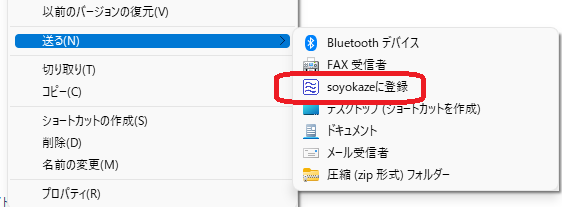
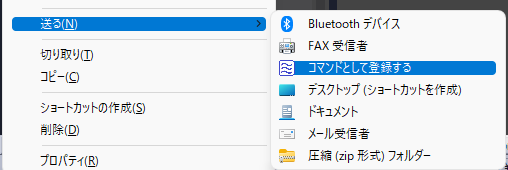
ヘルプ修正、画像差し替え

Changed region(s): [[0.0, 0.0, 1.0, 1.0], [0.0591, 0.2647, 0.2067, 0.3824], [0.0591, 0.4118, 0.1772, 0.5]]

diff --git a/doc/help.md b/doc/help.md
@@ -87,7 +87,7 @@ Windows環境で動作する。以下の環境で動作確認済
 - [`new`コマンドで登録する](#newコマンドで登録する)
 - [`registwin`コマンドで登録する](#registwinコマンドで登録する)
 - [対象ウインドウをDrag&Dropする](#対象ウインドウをdragdropする)
-- [コンテキストメニューの`送る`>`soyokazeに登録`](#コンテキストメニューの送るsoyokazeに登録)
+- [コンテキストメニューの`送る`>`コマンドとして登録する`](#コンテキストメニューの送るコマンドとして登録する`)
 
 各方法の詳細について後述する。
 
@@ -115,9 +115,9 @@ Windows環境で動作する。以下の環境で動作確認済
 ↓  
 ![](../image/registringDragDrop.gif)  
 
-### コンテキストメニューの`送る`>`soyokazeに登録`
+### コンテキストメニューの`送る`>`コマンドとして登録する`
 
-登録したいファイルをエクスプローラ上で右クリックして、`送る`>`soyokazeに登録`を選択すると、そのファイルを登録するためのコマンド編集画面が表示される  
+登録したいファイルをエクスプローラ上で右クリックして、`送る`>`コマンドとして登録する`を選択すると、そのファイルを登録するためのコマンド編集画面が表示される  
 ↓  
 ![](../image/sendto.png)  
 
@@ -707,7 +707,7 @@ Soyokaze配置ディレクトリ/
 
 #### 16進カラーコード
 
-`#RRGGBB` `#RGB`の形式で入力欄に入力すると、そのカラーコードに対応する色をアイコン欄に表示する。
+`#RRGGBB` `#RGB` `rgb(r,g,b)`の形式で入力欄に入力すると、そのカラーコードに対応する色をアイコン欄に表示する。
 選択するとクリップボードに内容をコピーする。
 
 ![](../image/colorcommand.png)
